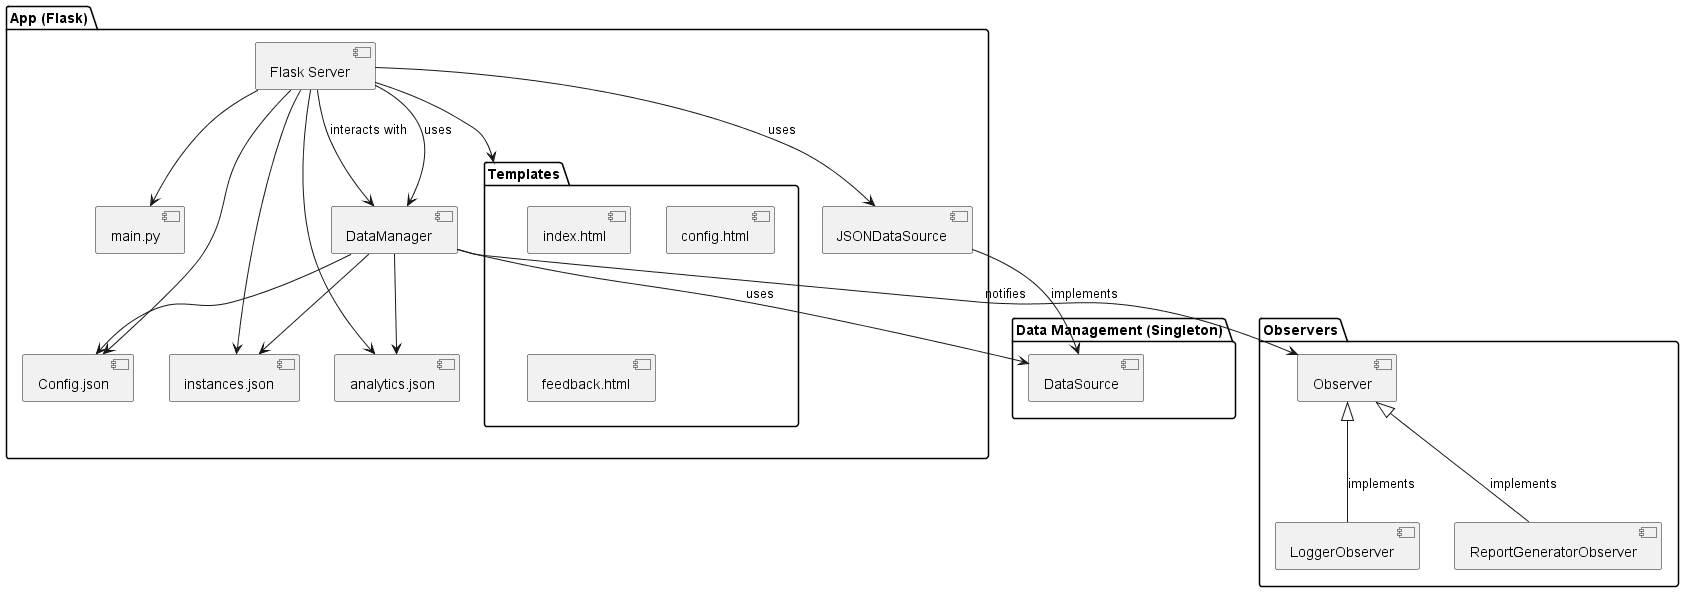
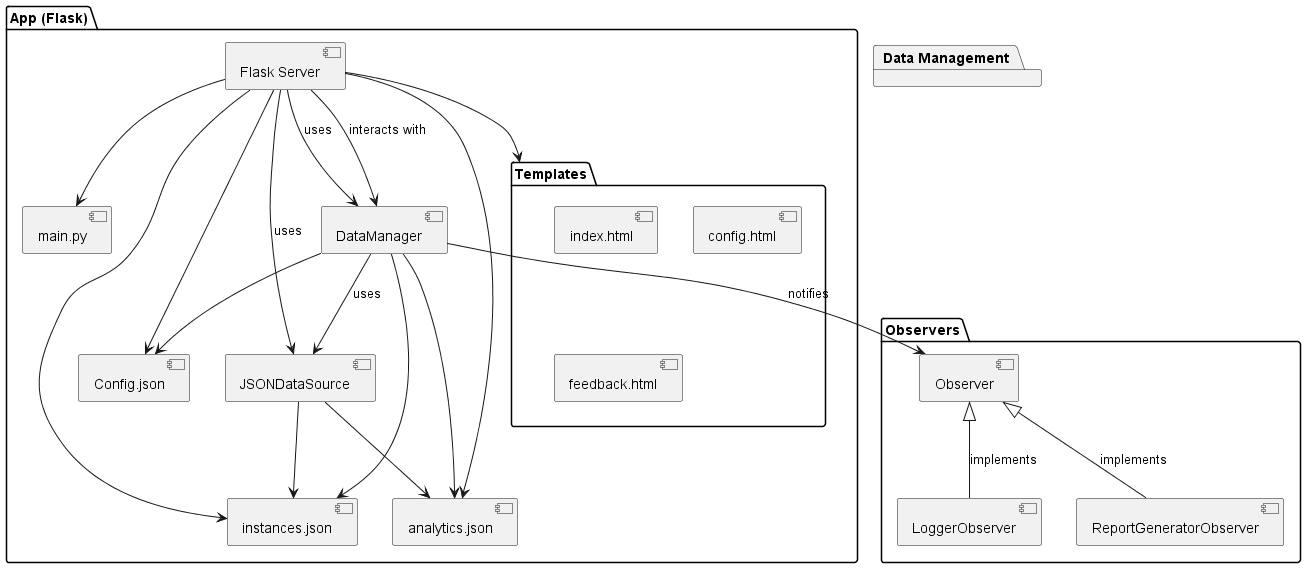
Atualização Antipadrão

diff --git a/data_manager.py b/data_manager.py
@@ -1,31 +1,27 @@
-# data_manager.py
-
-from data_source import JSONDataSource
+from json_data_source import JSONDataSource
 
 class DataManager:
     _instance = None
 
     def __new__(cls, *args, **kwargs):
         if not cls._instance:
-            cls._instance = super().__new__(cls, *args, **kwargs)
+            cls._instance = super().__new__(cls)
         return cls._instance
-    
-    def __init__(self, data_source=None):
-        self.data_source = data_source or JSONDataSource()
-        self._observers = []
 
-    # gerenciamento de observadores
+    def __init__(self):
+        if not hasattr(self, "data_source"):
+            self.data_source = JSONDataSource()
+            self.observers = []
+
     def add_observer(self, observer):
-        self._observers.append(observer)
-
-    def remove_observer(self, observer):
-        self._observers.remove(observer)
+        """Adiciona um novo observador à lista."""
+        self.observers.append(observer)
 
     def notify_observers(self, event_type, data):
-        for observer in self._observers:
+        """Notifica todos os observadores sobre um evento."""
+        for observer in self.observers:
             observer.update(event_type, data)
 
-    # notificação de observadores
     def load_instances(self):
         return self.data_source.load_instances()
 

diff --git a/main.py b/main.py
@@ -1,18 +1,13 @@
-# main.py
-
 from flask import Flask, request, jsonify, render_template
 from data_manager import DataManager
 from Observers import LoggerObserver, ReportGeneratorObserver
 
 app = Flask(__name__)
 
-# Instanciando o DataManager (Singleton)
+# Instanciando o DataManager e adicionando observadores
 data_manager = DataManager()
-
-# Adiciona os observadores
 logger_observer = LoggerObserver()
 report_observer = ReportGeneratorObserver()
-
 data_manager.add_observer(logger_observer)
 data_manager.add_observer(report_observer)
 

diff --git a/json_data_source.py b/json_data_source.py
@@ -1,0 +1,18 @@
+import json
+
+class JSONDataSource:
+    def load_instances(self):
+        with open('instances.json', 'r') as f:
+            return json.load(f)
+
+    def save_instances(self, instances):
+        with open('instances.json', 'w') as f:
+            json.dump(instances, f)
+
+    def load_analytics(self):
+        with open('analytics.json', 'r') as f:
+            return json.load(f)
+
+    def save_analytics(self, analytics):
+        with open('analytics.json', 'w') as f:
+            json.dump(analytics, f)

diff --git a/Observers.py b/Observers.py
@@ -4,7 +4,7 @@ class Observer:
 
 class LoggerObserver(Observer):
     def update(self, event_type, data):
-        print(f"[LOG] Evento '{event_type}' ocorrido com dados: {data}")
+        print(f"[LOG] Evento '{event_type}' ocorreu com dados: {data}")
 
 class ReportGeneratorObserver(Observer):
     def update(self, event_type, data):
